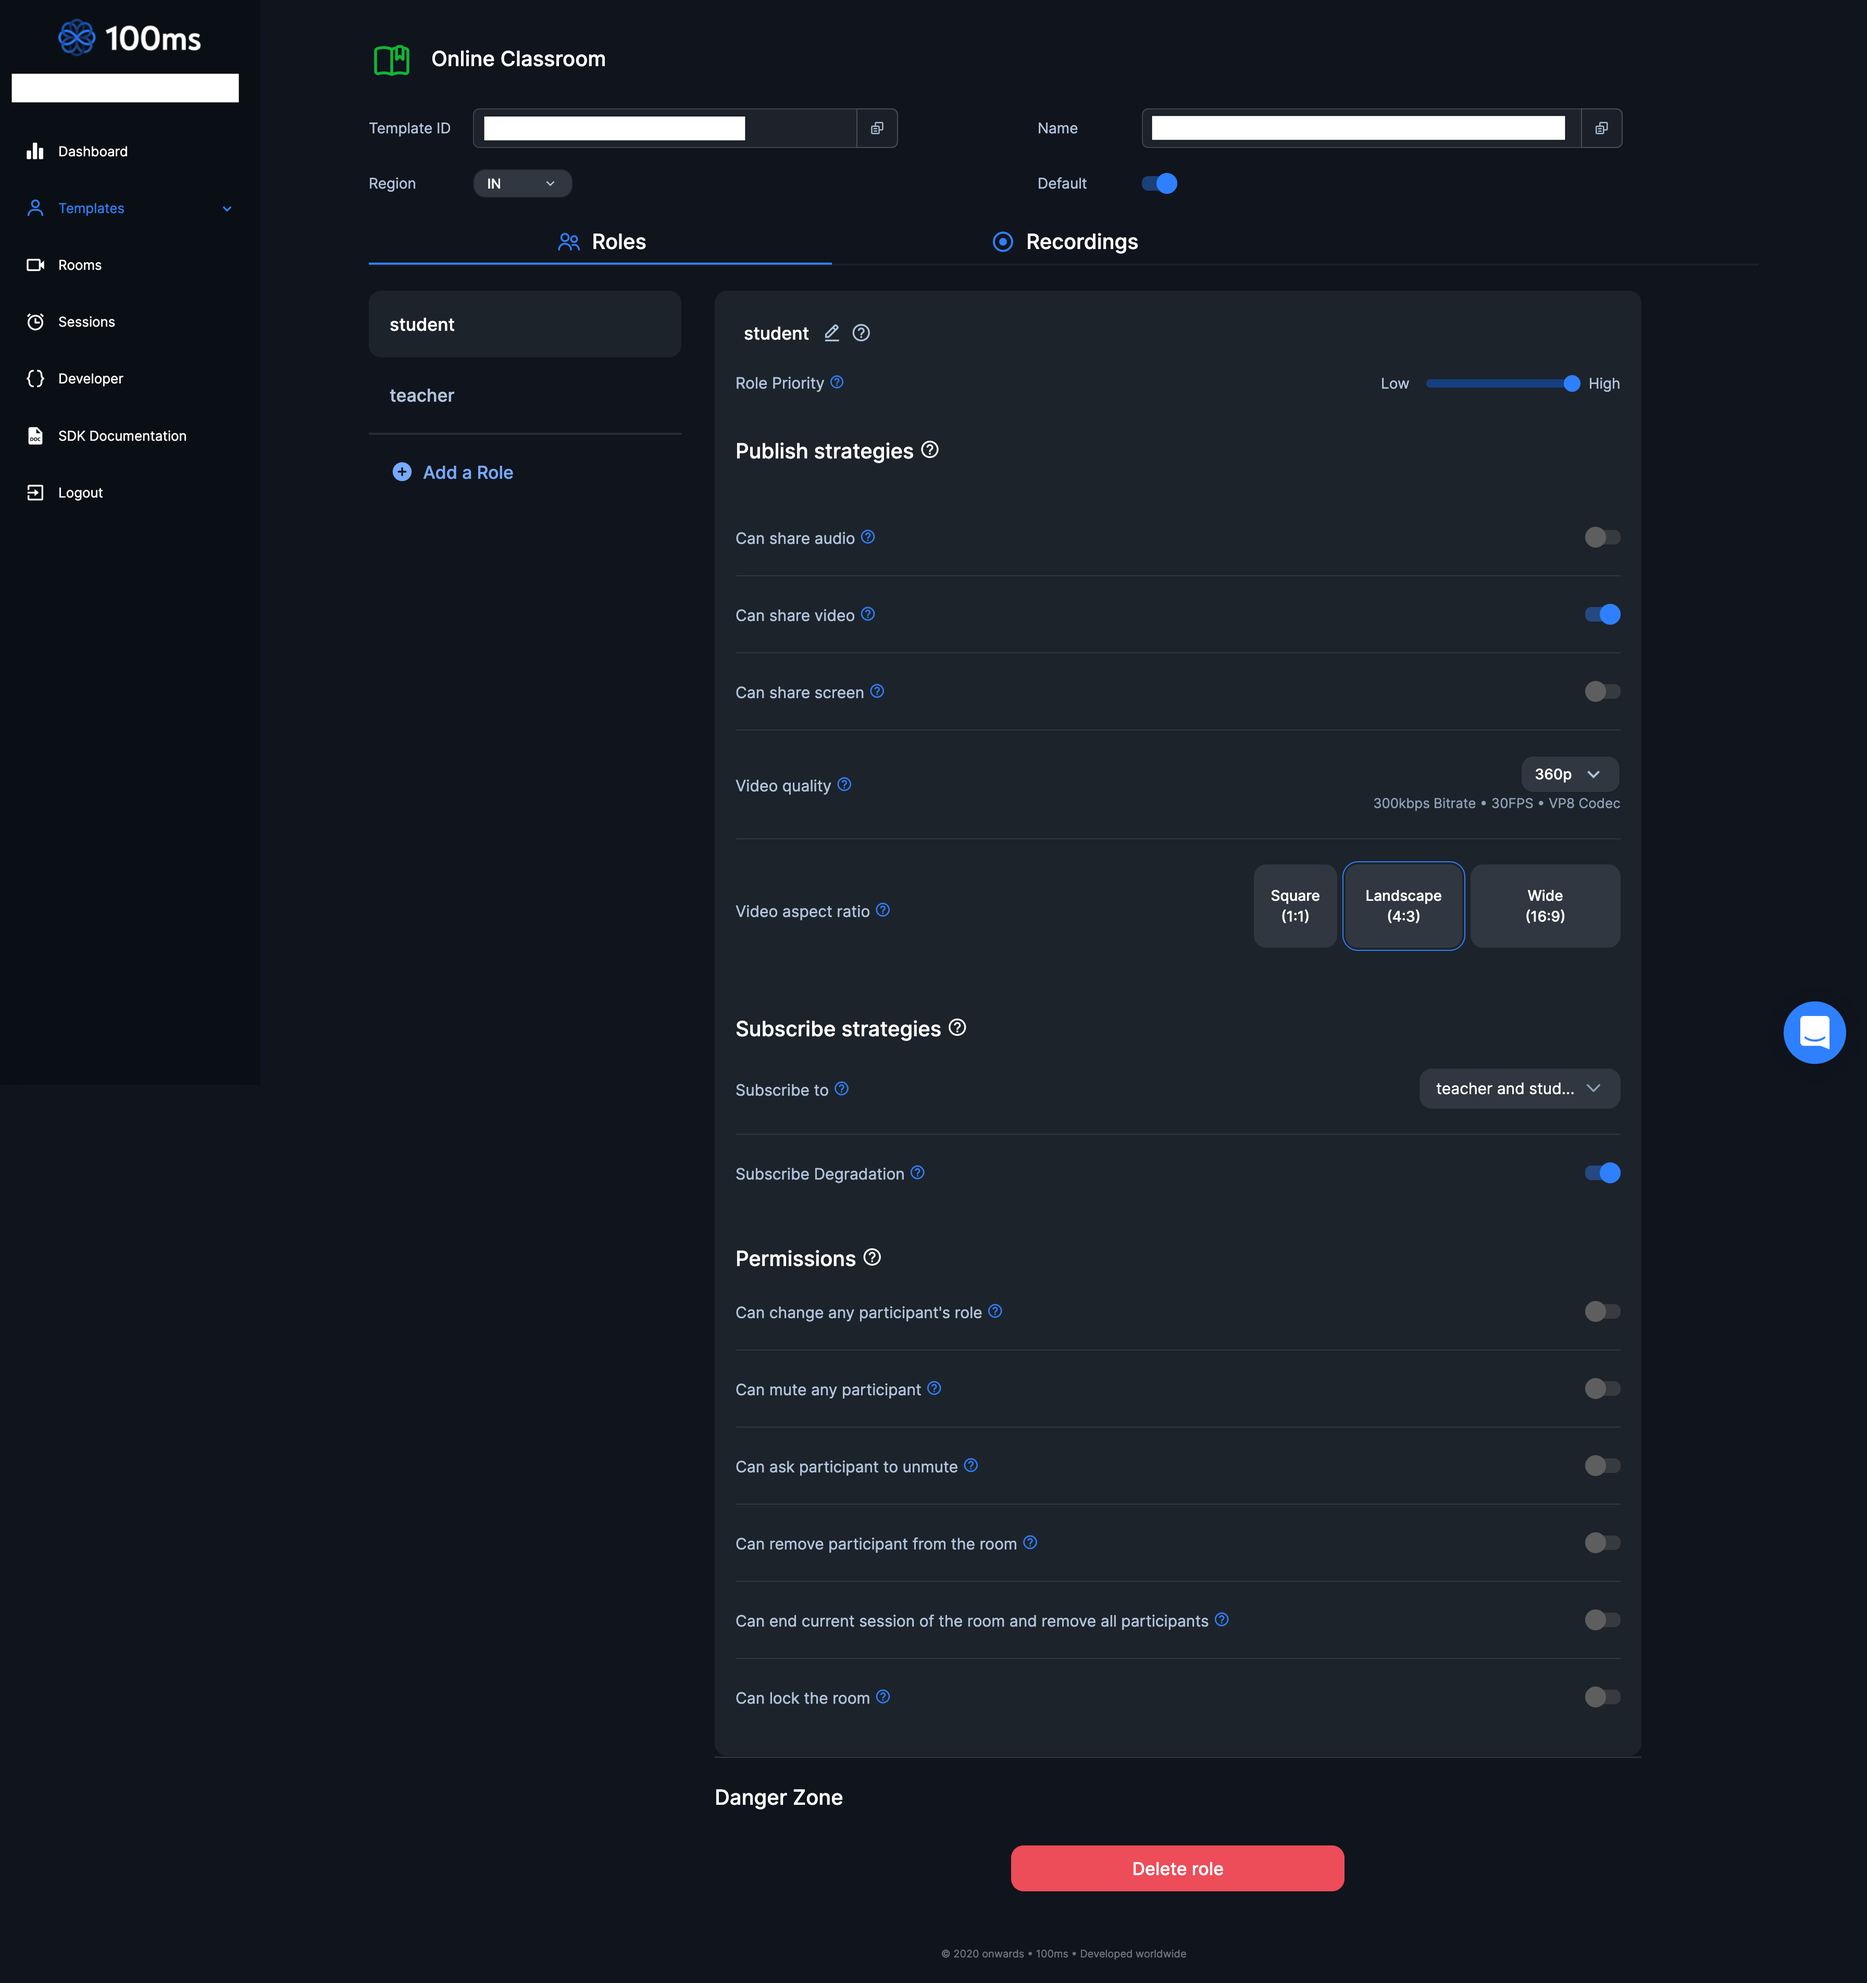
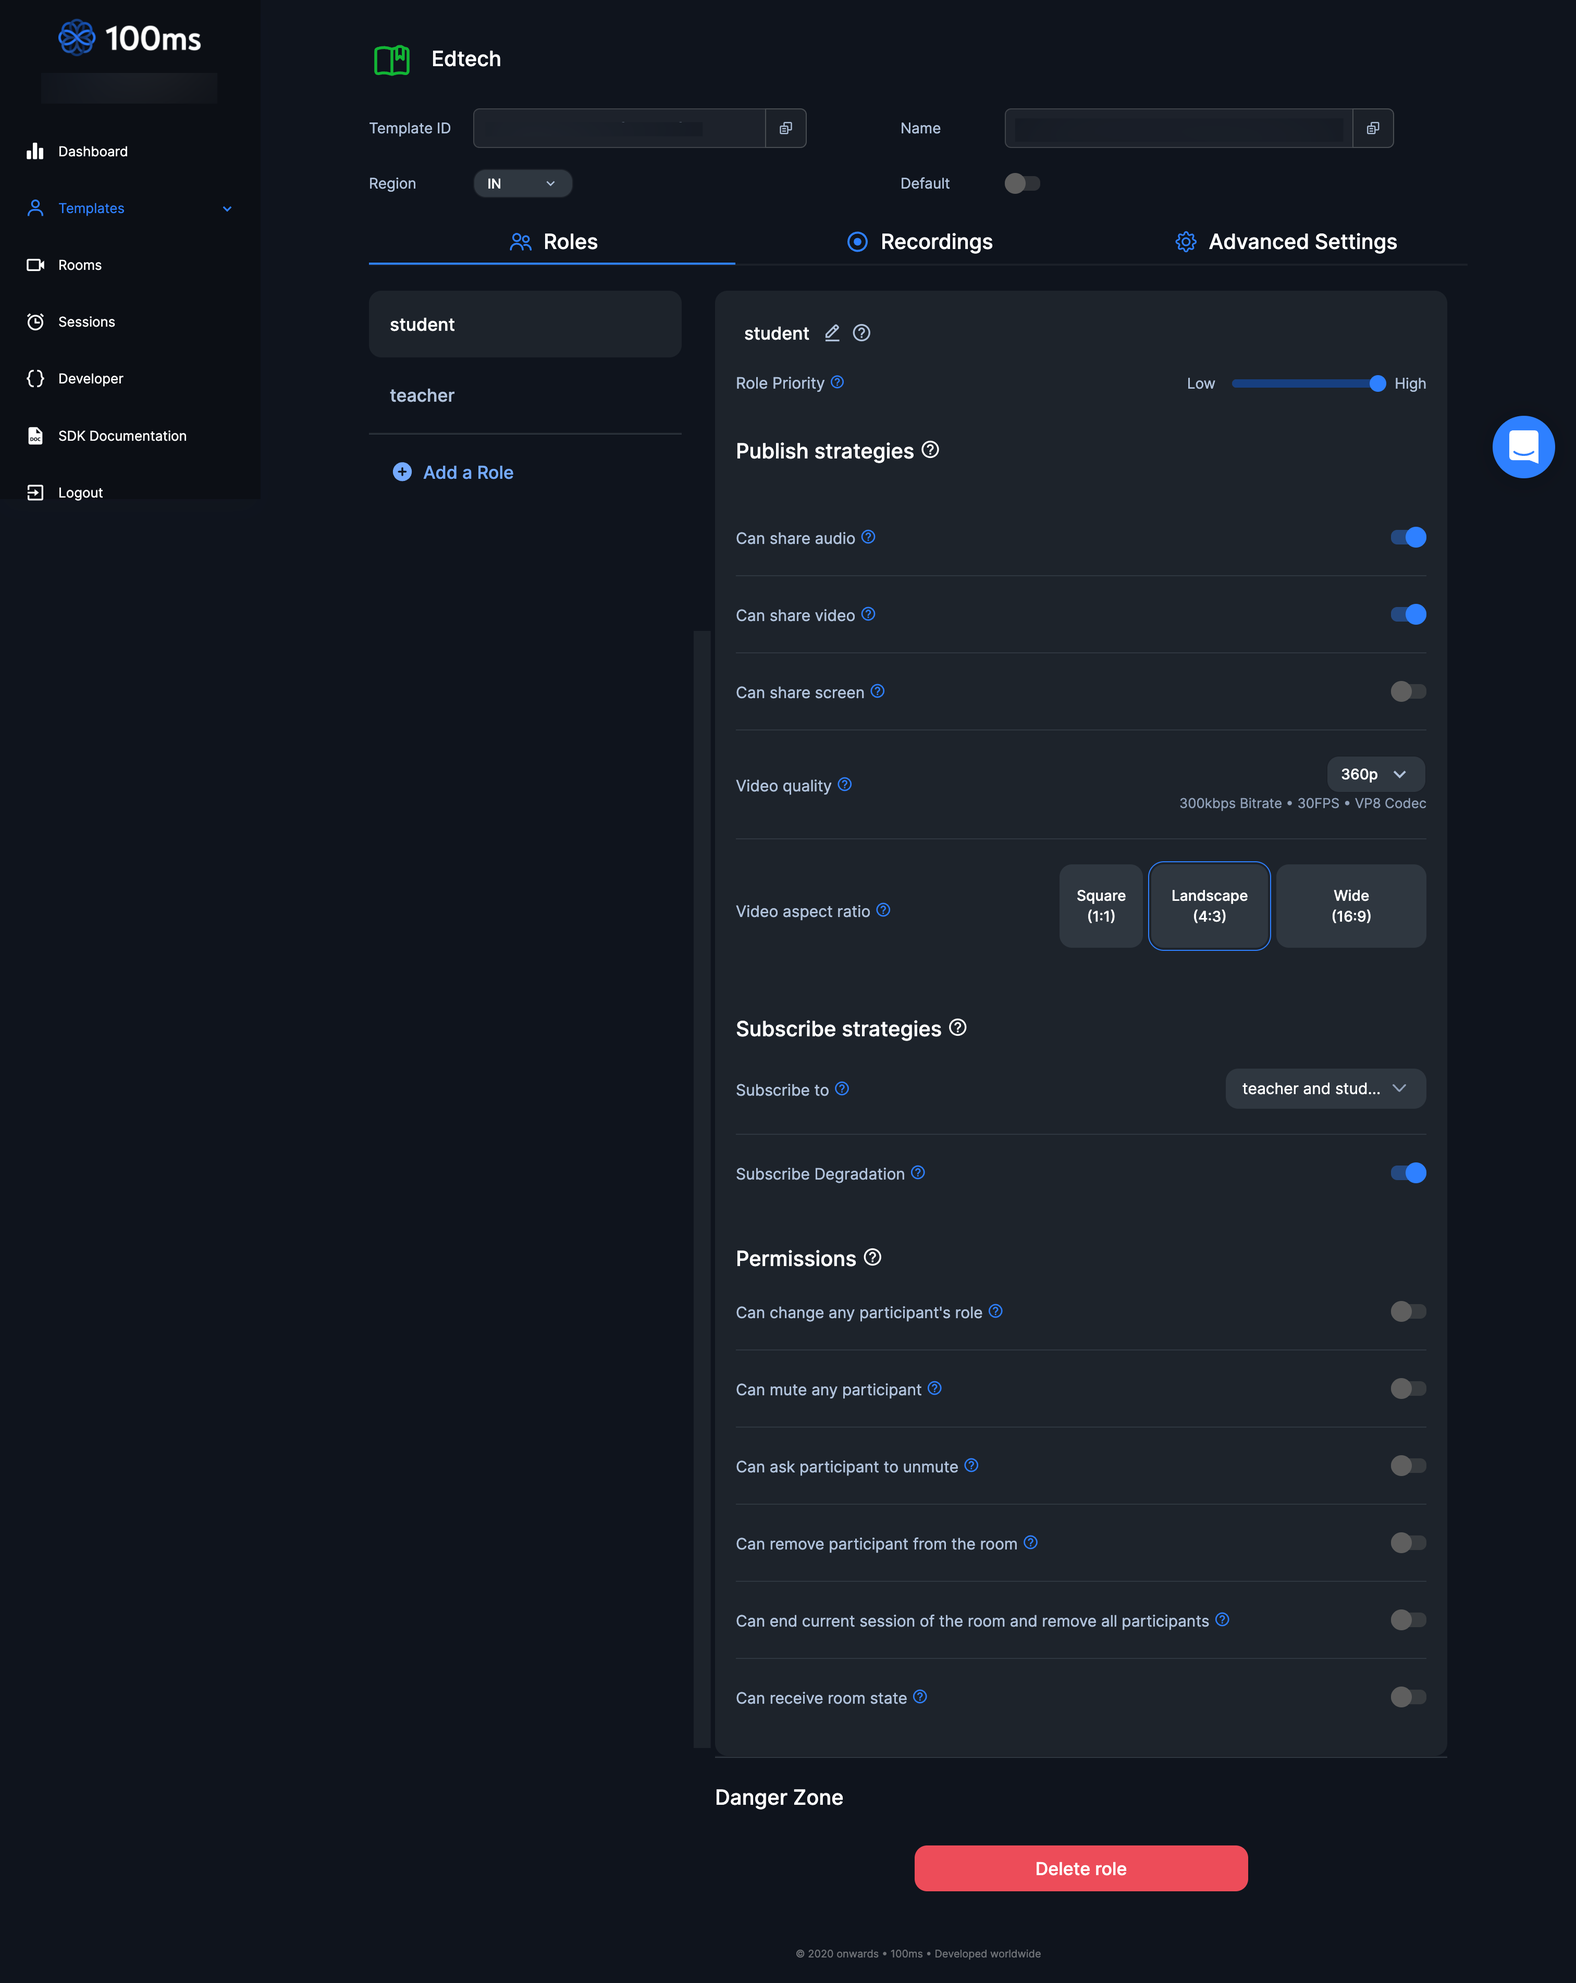
Add advanced settings documentation

diff --git a/common/templates-and-roles.md b/common/templates-and-roles.md
@@ -52,3 +52,22 @@ Permissions will contain a list of additional privileges that this role will hav
 | Can ask participant to unmute        | With this permission, user will be able to ask any participant to unmute their audio and/or video.                |
 | Can remove participant from the room | With this permission, user will be able to remove any participant from the current session of the room.           |
 | Can end current session of the room  | With this permission, user will be able to end the current session of the room.                                   |
+| Can receive room state               | With this permission, user will be able to receive room state like peer-count and peer-list on the preview screen. |
+## Advanced Settings
+
+As the name suggests, Advanced Settings section contains more settings and controls for the advanced user.
+
+![Template](/docs/docs/v2/advanced-settings.png)
+
+### Room State
+
+Room state settings control the behaviour of room state shown to the user on the preview screen.
+
+
+
+| Setting                           | Description                                                                                                       |
+| ------------------------------------ | ----------------------------------------------------------------------------------------------------------------- |
+| Room-state Message Interval (in seconds)    | Room-state data will be sent over a regular interval of these many seconds.  Consequently, the room state displayed on the preview screen will refresh accordingly. This value must be a multiple of 5, between 5 and 3600 seconds, both inclusive.                                   |
+| Send Peer List in Room-state                | Enabling this will send peer-list data of the room. If disabled, only the peer count is sent.                   |
+| Enable Room-State                           | If enabled, room-state data will be sent to the preview screen. If disabled, no such room-state data will be sent.|
+| Roles with room-state permission           | This is the list of all the roles which will get the room-state data. You can also individually toggle these settings in the Roles tab under the Permissions section.                               |
